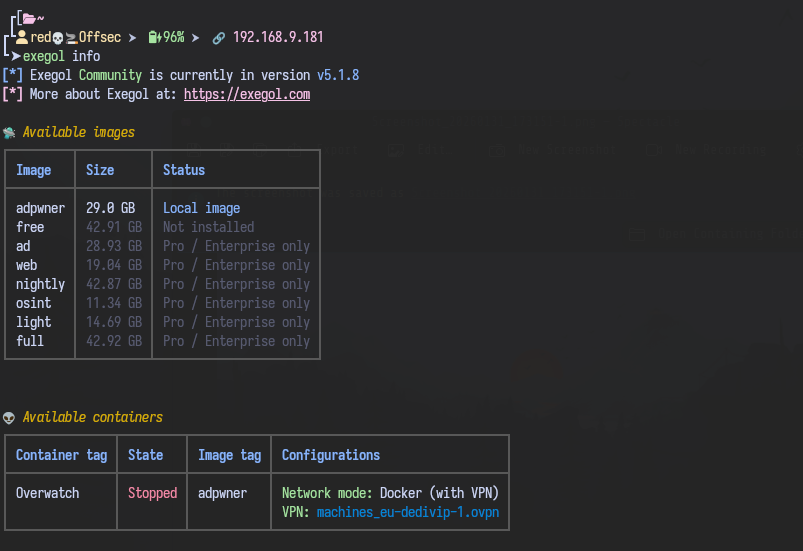
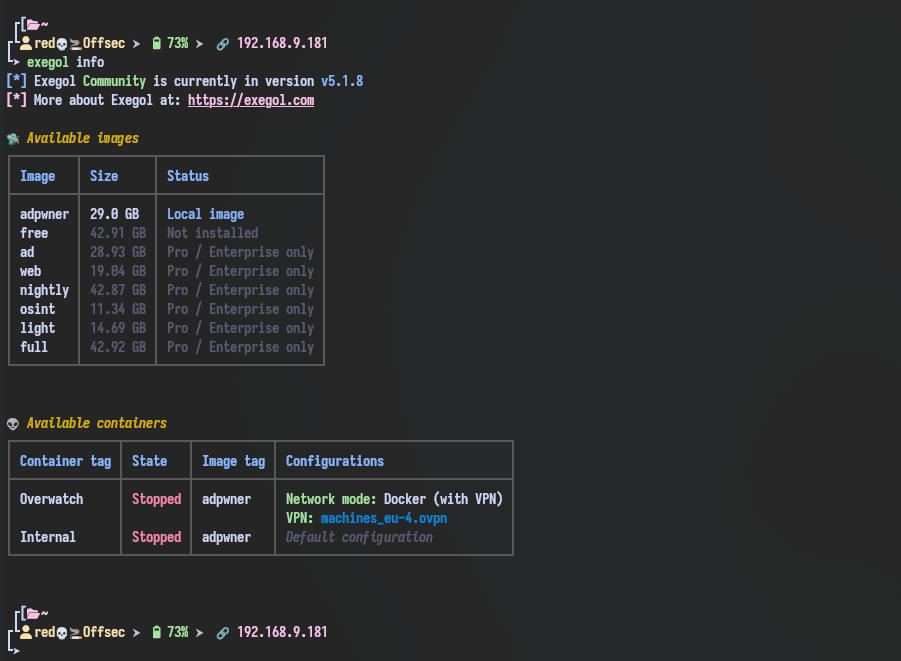
Update dotfiles with SDDM theme, new wallpaper, and complete install script
- Add SDDM SilentSDDM theme configuration and documentation
- Add new space-themed wallpaper (wallhaven-e76pew.png)
- Update all screenshots (SDDM login, desktop, terminal, ZSH, Exegol)
- Completely rewrite install.sh with automatic prerequisites installation
- Add fastfetch system info tool (examples/13.jsonc theme)
- Add automated installation for lsd, batcat, Iosevka Nerd Font, Oh My ZSH
- Add optional SDDM theme installation with user prompt
- Improve install script with colored output and error checking

Changed region(s): [[0.0, 0.0, 0.6538, 0.9873]]

diff --git a/README.md b/README.md
@@ -2,9 +2,12 @@
 
 My personal Linux setup for pentesting & daily use.
 
-![Desktop](screenshots/Desktop.png)
+![Desktop](screenshots/desktop.png)
 
 ## Screenshots
+
+### SDDM Login
+![SDDM](screenshots/sddm.png)
 
 ### Terminal
 ![Terminal](screenshots/Terminal.png)
@@ -21,6 +24,7 @@ My personal Linux setup for pentesting & daily use.
 |-----------|-------|
 | **OS** | KDE neon (Plasma 6.5.5) |
 | **WM** | KWin |
+| **Display Manager** | SDDM ([SilentSDDM](https://github.com/uiriansan/SilentSDDM.git)) |
 | **Terminal** | [Kitty](https://sw.kovidgoyal.net/kitty/) |
 | **Shell** | ZSH 5.9 |
 | **Theme** | Catppuccin Mocha (Kitty) / Dracula-alt-style (GTK) |
@@ -41,7 +45,8 @@ dotfiles/
 ├── zshrc/
 │   └── .zsh_aliases        # Shell aliases
 ├── Wallpapers/
-│   └── wallhaven-lyz3d2.png  # Desktop wallpaper
+│   ├── wallhaven-lyz3d2.png  # Old wallpaper
+│   └── wallhaven-e76pew.png  # Current desktop wallpaper (space theme)
 ├── screenshots/
 └── install.sh
 ```
@@ -68,6 +73,17 @@ A multi-line prompt with:
 
 Shortcuts for navigation, system updates, VPN management, network scanning, pivoting (Ligolo-NG), CTF platforms (HackTheBox, Vulnlab), report setup, and more.
 
+### SDDM Theme
+
+Using [SilentSDDM](https://github.com/uiriansan/SilentSDDM.git) - a minimalist login theme with a misty forest background.
+
+To install:
+```bash
+git clone https://github.com/uiriansan/SilentSDDM.git
+sudo cp -r SilentSDDM /usr/share/sddm/themes/
+sudo nano /etc/sddm.conf  # Set Current=SilentSDDM under [Theme]
+```
+
 ## Prerequisites
 
 Install a [Nerd Font](https://www.nerdfonts.com/) for the icons to render properly. This setup uses **Iosevka Nerd Font**:
@@ -85,9 +101,10 @@ unzip Iosevka.zip -d Iosevka
 fc-cache -fv
 ```
 
-You also need these tools for the aliases to work:
+You also need these tools:
 - [lsd](https://github.com/lsd-rs/lsd) (aliased as `ls`)
 - [batcat](https://github.com/sharkdp/bat) (aliased as `bat`)
+- [fastfetch](https://github.com/fastfetch-cli/fastfetch) (system info - using `examples/13.jsonc` theme)
 - [Oh My ZSH](https://ohmyz.sh/) or a ZSH framework that supports custom themes
 
 ## Installation
